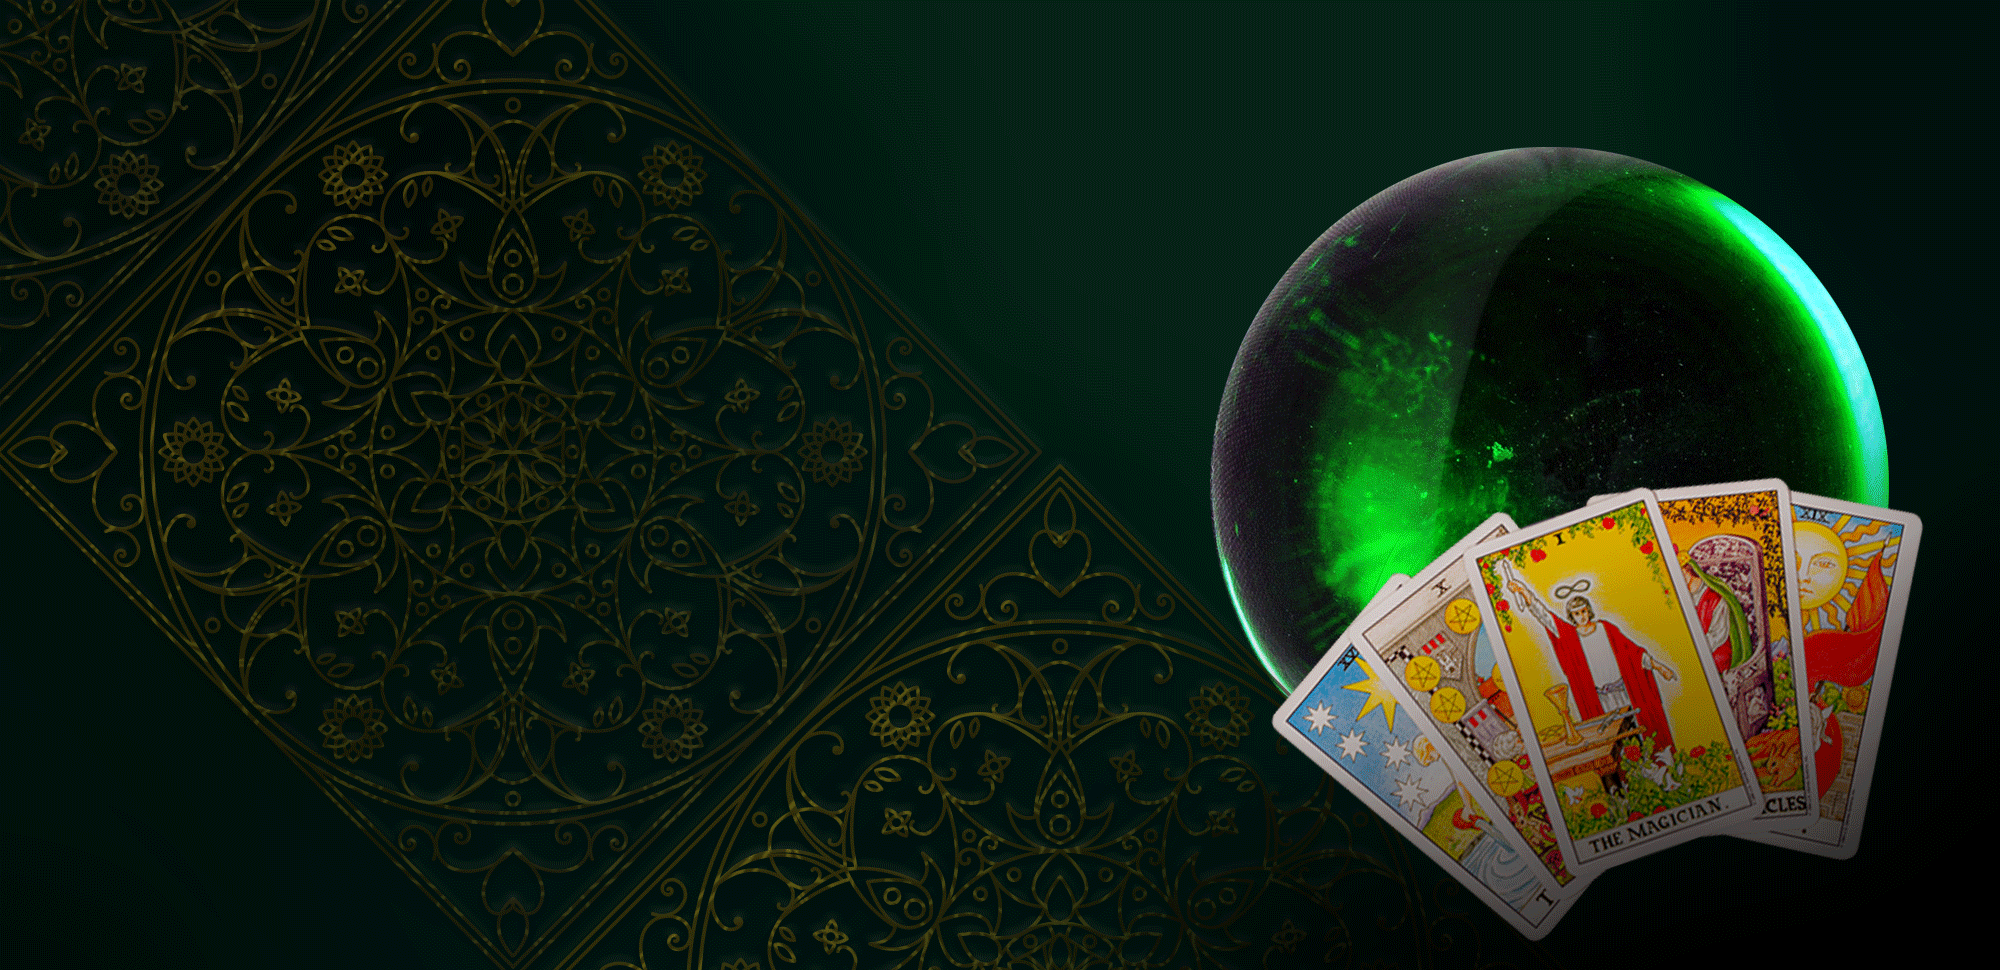
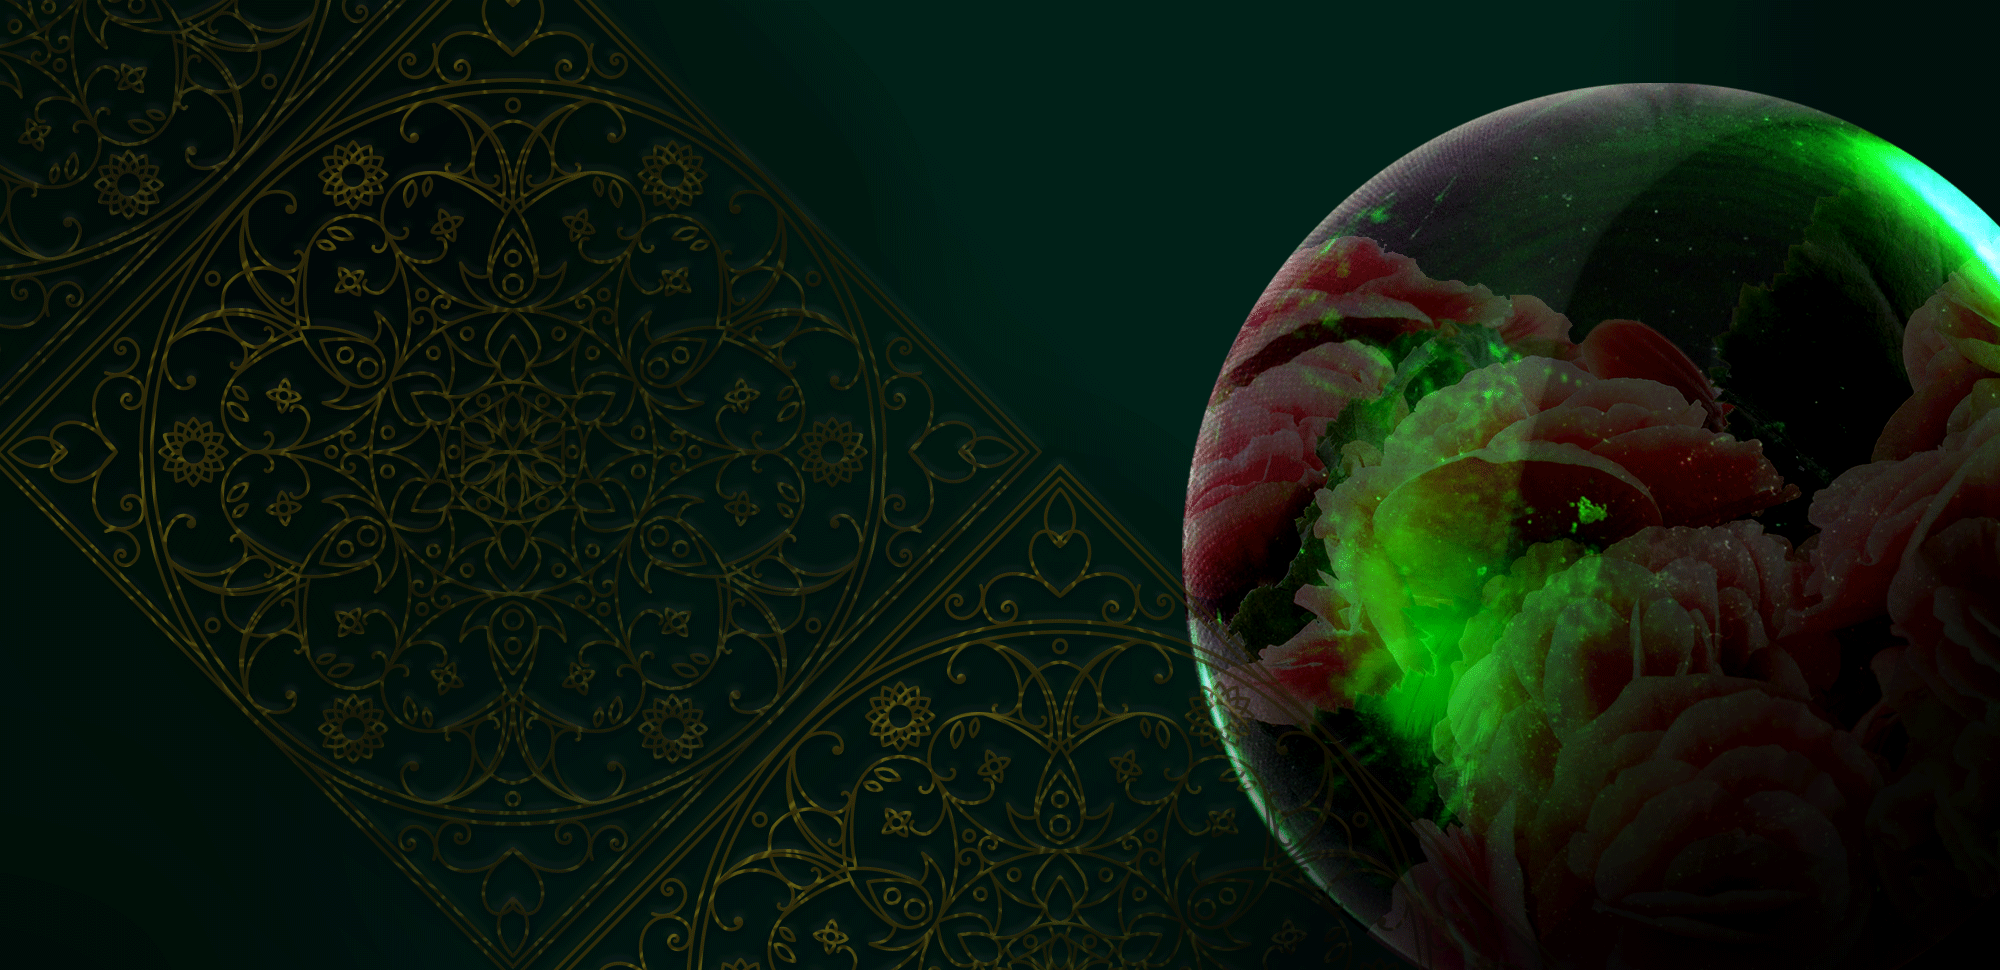
Wstępne stylowanie sekcji O mnie

Changed region(s): [[0.589, 0.0619, 1.0, 1.0]]

diff --git a/Tarocistka_Dafne/dafne/index.html b/Tarocistka_Dafne/dafne/index.html
@@ -3,7 +3,7 @@
 
 <head>
     <meta charset="UTF-8">
-    <title>Tarocistka Dafne</title>
+    <title>Dafne - Tarot, przewodnictwo duchowe</title>
     <link rel="stylesheet" href="https://maxcdn.bootstrapcdn.com/bootstrap/4.0.0/css/bootstrap.min.css" integrity="sha384-Gn5384xqQ1aoWXA+058RXPxPg6fy4IWvTNh0E263XmFcJlSAwiGgFAW/dAiS6JXm" crossorigin="anonymous">
     <link rel="stylesheet" href="../dafne/css/main.css">
     <!-- Google Fonts -->
@@ -15,10 +15,11 @@
 <script src="https://use.fontawesome.com/10f3f887a3.js"></script>
 
 <body>
+   <!-- Nagłówek -->
     <section id="header">
         <div class="container" id="header-image">
             <div class="row">
-                <div class="col-ms-12 col-md-12 col-xs-12 col-lg-12 text-center" id="header-text">
+                <div class="col-ms-12 col-md-12 col-xs-6 col-lg-12 text-center" id="header-text">
                     <h1>Tarocistka Dafne</h1>
                     <i class="fa fa-star fa-3x"></i>
                     <h3>Tarot, karty kamieni, przewodnictwo duchowe</h3><i class="fa fa-star fa-3x"></i>
@@ -26,6 +27,8 @@
             </div>
         </div>
     </section>
+    <!-- Koniec nagłówka -->
+    <!--Nawigacja-->
     <nav class="container text-center">
         <ul>
             <li><a href="#about">O mnie</a></li>
@@ -35,28 +38,45 @@
             <li><a href="#contact">Kontakt</a></li>
         </ul>
     </nav>
+    <!-- Koniec nawigacji -->
+    <!-- Sekcja "O mnie" -->
     <section id="about">
-        <div class="container text-justify">
-            <h4>Miłość jest znakiem</h4>
-            <p>Wielu naukowców upiera się przy twierdzeniu że ezoteryka jest archaiczną nauką. w rzeczywistości jest ona najbardziej aktualną dziedziną wiedzy,jaką znam. Coraz więcej osób, zarówno młodych jak i starszych, zwraca się ku ezoteryce. Odzwierciedla ona tendencję narastającego zainteresowania ludzi miłością, pieniędzmi i zdrowiem – w takiej właśnie kolejności. Można by się spierać co do tego czy pieniądze powinny być postawione przed zdrowiem, ale nie ma wątpliwości co do miłości – miłość zawsze jest na pierwszym miejscu. Od niepamiętnych czasów historii astrologowie są zasypywani pytaniami dotyczącymi tego uczucia.</p>
-            <p>Samotność jest obecnie jedną z większych, jeśli nie największych dolegliwości, dotykającą ludzi w każdym wieku. Żyjemy w erze nowoczesnej technologi, w świecie, w którym młodzi ludzie coraz częściej popadają w alkoholizm, narkotyki, popełniają samobójstwa. Ezoteryka może być wykorzystana do uniknięcia tych pułapek, ponieważ wskazuje nam nasze miejsce w czasie – we właściwym czasie.
-            </p>
+         <div class="container">
+            <div class="row">
+                <div class="col-ms-3 col-md-3 col-xs-6 col-lg-3 text-center" id="tarot-card">
+                        <p id="tarot-text">
+                        Sesja tarota to nie machnięcie magiczną różdżką ani wyrocznia "tak będzie". To raczej zbiór wskazówek i znaków mówiących "tak może być, ale..."</p>
+                </div>
+                <div class="col-ms-9 col-md-9 col-xs-6 col-lg-9 text-justify">
+                <h4 text-center>Miłość jest znakiem</h4>
+                   <p>Wielu naukowców upiera się przy twierdzeniu że ezoteryka jest archaiczną nauką. w rzeczywistości jest ona najbardziej aktualną dziedziną wiedzy,jaką znam. Coraz więcej osób, zarówno młodych jak i starszych, zwraca się ku ezoteryce. Odzwierciedla ona tendencję narastającego zainteresowania ludzi miłością, pieniędzmi i zdrowiem – w takiej właśnie kolejności. Można by się spierać co do tego czy pieniądze powinny być postawione przed zdrowiem, ale nie ma wątpliwości co do miłości – miłość zawsze jest na pierwszym miejscu. Od niepamiętnych czasów historii astrologowie są zasypywani pytaniami dotyczącymi tego uczucia.</p>
+                    <p>Samotność jest obecnie jedną z większych, jeśli nie największych dolegliwości, dotykającą ludzi w każdym wieku. Żyjemy w erze nowoczesnej technologi, w świecie, w którym młodzi ludzie coraz częściej popadają w alkoholizm, narkotyki, popełniają samobójstwa. Ezoteryka może być wykorzystana do uniknięcia tych pułapek, ponieważ wskazuje nam nasze miejsce w czasie – we właściwym czasie.
+                    </p>
+                </div>
+            </div>
         </div>
     </section>
+    <!-- Koniec sekcji "About" -->
+    <!-- Sekcja Usługi -->
     <section id="work">
         <div class="container">
             <div class="row">
                 <div class="col-ms-4 col-md-4 col-xs-6 col-lg-4 text-center" id="tarot">
                     <h4>Tarot</h4>
-                    Lorem ipsum dolor sit amet, consectetur adipisicing elit. Earum minima consectetur aliquam ad alias quibusdam maiores error dicta, quisquam odit mollitia sed blanditiis eos. Deleniti perspiciatis dignissimos voluptatibus ipsam inventore accusamus repellat, architecto dolorem beatae aspernatur, ipsum et doloribus at! Placeat quas non, incidunt nesciunt at dignissimos quo laudantium necessitatibus fugit, illum iste adipisci dolore repellat itaque odio deleniti ad sapiente magnam distinctio ratione ut blanditiis esse libero eos. Sed!
+                    <p class="text-justify">
+                    Lorem ipsum dolor sit amet, consectetur adipisicing elit. Earum minima consectetur aliquam ad alias quibusdam maiores error dicta, quisquam odit mollitia sed blanditiis eos. Deleniti perspiciatis dignissimos voluptatibus ipsam inventore accusamus repellat, architecto dolorem beatae aspernatur, ipsum et doloribus at! Placeat quas non, incidunt nesciunt at dignissimos quo laudantium necessitatibus fugit, illum iste adipisci dolore repellat itaque odio deleniti ad sapiente magnam distinctio ratione ut blanditiis esse libero eos. Sed!</p>
                 </div>
                 <div class="col-ms-4 col-md-4 col-xs-6 col-lg-4 text-center" id="kamienie">
                     <h4>Karty Kamieni</h4>
+                    <p class="text-justify">
                     Lorem ipsum dolor sit amet, consectetur adipisicing elit. Earum minima consectetur aliquam ad alias quibusdam maiores error dicta, quisquam odit mollitia sed blanditiis eos. Deleniti perspiciatis dignissimos voluptatibus ipsam inventore accusamus repellat, architecto dolorem beatae aspernatur, ipsum et doloribus at! Placeat quas non, incidunt nesciunt at dignissimos quo laudantium necessitatibus fugit, illum iste adipisci dolore repellat itaque odio deleniti ad sapiente magnam distinctio ratione ut blanditiis esse libero eos. Sed!
+                    </p>
                 </div>
                 <div class="col-ms-4 col-md-4 col-xs-6 col-lg-4 text-center">
                     <h4>Karty cygańskie</h4>
+                    <p class="text-justify">
                     Lorem ipsum dolor sit amet, consectetur adipisicing elit. Earum minima consectetur aliquam ad alias quibusdam maiores error dicta, quisquam odit mollitia sed blanditiis eos. Deleniti perspiciatis dignissimos voluptatibus ipsam inventore accusamus repellat, architecto dolorem beatae aspernatur, ipsum et doloribus at! Placeat quas non, incidunt nesciunt at dignissimos quo laudantium necessitatibus fugit, illum iste adipisci dolore repellat itaque odio deleniti ad sapiente magnam distinctio ratione ut blanditiis esse libero eos. Sed!
+                    </p>
                 </div>
             </div>
         </div>

diff --git a/Tarocistka_Dafne/dafne/scss/main.scss b/Tarocistka_Dafne/dafne/scss/main.scss
@@ -1,18 +1,20 @@
 @import "zmienne";
 
-@mixin section {
-    margin-left: 0 auto;
-    margin-right: 0 auto;
-    background-color: $section-color;
-}
-
 body {
-    background-color: $background-color;
-    font-size: 15px;
+
+    background: #103f1a;
+    background: -moz-linear-gradient(-45deg, #103f1a 0%, #002400 100%);
+    background: -webkit-linear-gradient(-45deg, #103f1a 0%, #002400 100%);
+    background: linear-gradient(135deg, #103f1a 0%, #002400 100%);
+    filter: progid:DXImageTransform.Microsoft.gradient( startColorstr='#103f1a', endColorstr='#002400', GradientType=1);
+    font-size: 17px;
     color: $font-color;
     font-family: $main-font;
     box-sizing: border-box;
+    margin: 0 auto;
+    padding: 0 auto;
 }
+/* Header */
 
 section#header {
     div#header-image {
@@ -24,11 +26,10 @@ section#header {
     }
     div#header-text {
         font-family: $header-font;
-        color: $warning;
+        color: $neutral;
         height: 20vh;
         width: 100%;
         h1 {
-            display: block;
             padding-top: 1em;
             font-size: 6em;
             font-weight: 400;
@@ -43,23 +44,87 @@ section#header {
                 font-size: 2em;
                 font-family: "Marck Script";
             }
-            .fa-star {
+            .fa {
                 color: $golden;
             }
-            
+
         }
     }
 }
 
+/* Nawigacja */
+
 nav {
-    height: 10vh;
+    height: 5vh;
     padding: 1em;
-    background-color: $golden;
+    background-color: $warning;
+    transition: 4s;
+    &:hover {
+        background-color: $golden;
+    }
     ul {
+        transform: translateY(-25%);
         li {
             list-style: none;
             display: inline;
             font-family: "Kavivanar", cursive;
+            padding-left: 0.5em;
+            padding-right: 0.5em;
+            font-size: 1.2em;
         }
+        a {
+            color: $golden;
+            text-decoration: none;
+            width: auto;
+            height: 2em;
+            transition: 2s;
+            &:hover {
+                text-decoration: none;
+                color: $neutral;
+            }
+
+        }
+    }
+}
+
+/* O mnie */
+
+section#about {
+    div {
+        background-color: $section-color;
+        padding: 1em;
+        div#tarot-card {
+            height: 35vh;
+            background-image: url(../img/tarot_01.jpg), url(../img/second.png);
+            background-size: cover;
+            background-position: center;
+            background-blend-mode: multiply;
+            border-radius: 2em;
+            transition: 3s;
+            &:hover {
+                background-image: url(../img/tarot-reading-1-1507749.jpg);
+
+            }
+            p {
+                width: 100%;
+                height: auto;
+                opacity: 0;
+                background-color: rgba(217, 253, 217, 0.7);
+                transition: 2s;
+                transform: translateY(25%);
+                padding: 1em;
+                &:hover {
+                    opacity: 1;
+                }
+            }
+        }
+    }
+}
+
+/* Usługi */
+section#work {
+    div {
+        background-color: $other-section;
+        padding: 2em;
     }
 }

diff --git a/Tarocistka_Dafne/dafne/css/main.css b/Tarocistka_Dafne/dafne/css/main.css
@@ -1,10 +1,18 @@
+@charset "UTF-8";
 body {
-  background-color: #053B26;
-  font-size: 15px;
+  background: #103f1a;
+  background: -moz-linear-gradient(-45deg, #103f1a 0%, #002400 100%);
+  background: -webkit-linear-gradient(-45deg, #103f1a 0%, #002400 100%);
+  background: linear-gradient(135deg, #103f1a 0%, #002400 100%);
+  filter: progid:DXImageTransform.Microsoft.gradient( startColorstr='#103f1a', endColorstr='#002400', GradientType=1);
+  font-size: 17px;
   color: #021C11;
   font-family: "Slabo 27px";
-  box-sizing: border-box; }
+  box-sizing: border-box;
+  margin: 0 auto;
+  padding: 0 auto; }
 
+/* Header */
 section#header div#header-image {
   background-image: url(../img/header.png);
   width: auto;
@@ -14,11 +22,10 @@ section#header div#header-image {
 
 section#header div#header-text {
   font-family: "Marck Script";
-  color: #8A2129;
+  color: #fff;
   height: 20vh;
   width: 100%; }
   section#header div#header-text h1 {
-    display: block;
     padding-top: 1em;
     font-size: 6em;
     font-weight: 400; }
@@ -31,14 +38,62 @@ section#header div#header-text {
       color: #B0872C;
       font-size: 2em;
       font-family: "Marck Script"; }
-    section#header div#header-text h3 .fa-star {
+    section#header div#header-text h3 .fa {
       color: #B0872C; }
 
+/* Nawigacja */
 nav {
-  height: 10vh;
+  height: 5vh;
   padding: 1em;
-  background-color: #B0872C; }
-  nav ul li {
-    list-style: none;
-    display: inline;
-    font-family: "Kavivanar", cursive; }
+  background-color: #8A2129;
+  transition: 4s; }
+  nav:hover {
+    background-color: #B0872C; }
+  nav ul {
+    transform: translateY(-25%); }
+    nav ul li {
+      list-style: none;
+      display: inline;
+      font-family: "Kavivanar", cursive;
+      padding-left: 0.5em;
+      padding-right: 0.5em;
+      font-size: 1.2em; }
+    nav ul a {
+      color: #B0872C;
+      text-decoration: none;
+      width: auto;
+      height: 2em;
+      transition: 2s; }
+      nav ul a:hover {
+        text-decoration: none;
+        color: #fff; }
+
+/* O mnie */
+section#about div {
+  background-color: #D9D9D7;
+  padding: 1em; }
+  section#about div div#tarot-card {
+    height: 35vh;
+    background-image: url(../img/tarot_01.jpg), url(../img/second.png);
+    background-size: cover;
+    background-position: center;
+    background-blend-mode: multiply;
+    border-radius: 2em;
+    transition: 3s; }
+    section#about div div#tarot-card:hover {
+      background-image: url(../img/tarot-reading-1-1507749.jpg); }
+    section#about div div#tarot-card p {
+      width: 100%;
+      height: auto;
+      opacity: 0;
+      background-color: rgba(217, 253, 217, 0.7);
+      transition: 2s;
+      transform: translateY(25%);
+      padding: 1em; }
+      section#about div div#tarot-card p:hover {
+        opacity: 1; }
+
+/* Usługi */
+section#work div {
+  background-color: #C2CBA5;
+  padding: 2em; }

diff --git a/Tarocistka_Dafne/dafne/scss/_zmienne.scss b/Tarocistka_Dafne/dafne/scss/_zmienne.scss
@@ -5,3 +5,5 @@ $golden: #B0872C;
 $section-color: #D9D9D7;
 $main-font: "Slabo 27px";
 $header-font: "Marck Script";
+$neutral: #fff;
+$other-section: #C2CBA5;
